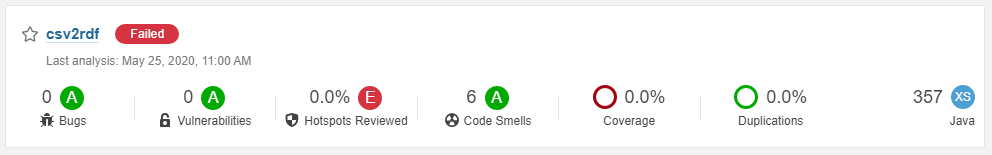
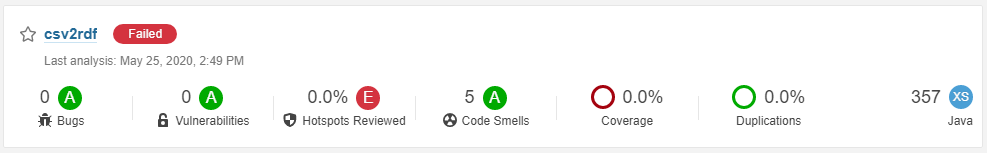
documentation for bugfixes

diff --git a/doc/static_analysis/static-analysis.md b/doc/static_analysis/static-analysis.md
@@ -11,3 +11,18 @@ SonarQube analízis eredménye a projekt kezdeti állapotára:
 ![](/doc/static_analysis/sonarqube1.png)
 
 Fejlesztőkörnyezetek közül mi az IntelliJ IDEA mellett döntöttünk. Ehhez elérhető a SonarLint plugin, amely csatlakozni tud az előzőekben létrehozott SonarQube szerverhez, és így jelentősen megkönnyíti a statikus analízis által felfedett hibák követését és javítását. 
+
+## Kódanalízis alapján javított hibák:
+
+Több egyszerűbb kódrész is átírásra került, az érthetőség javítása érdekében:
+ - _Try with Resources_ bevezetése a manuális _stream.close()_ metódushívások helyett
+ - Egymásba ágyazott ?: operátorok átírása átláthatóbb _if(...)_ szerkezetre.
+ - Kulcsszavak sorrendjének megváltoztatása, hogy azok kövessék a Java standardot.
+
+ Valamint még a következő modosításokat végeztük:
+  - Egy privát függvényt áthelyeztünk egy belső osztályon belülre, mert az nem volt az osztályon kívül meghívva.
+  - Bevezettünk egy _Logger_ objektumot a _System.out.println(...)_ hívások kiváltására.
+
+  A hibajavítások után a SonarQube analízis eredménye:
+
+  ![](/doc/static_analysis/sonarqube2.png)
